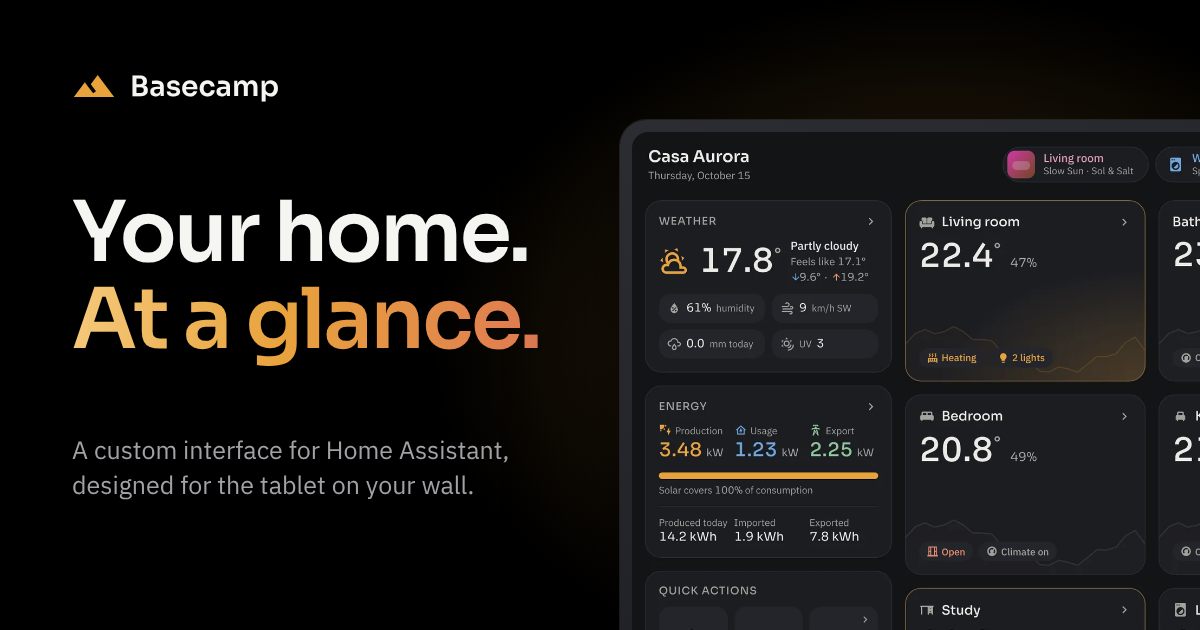
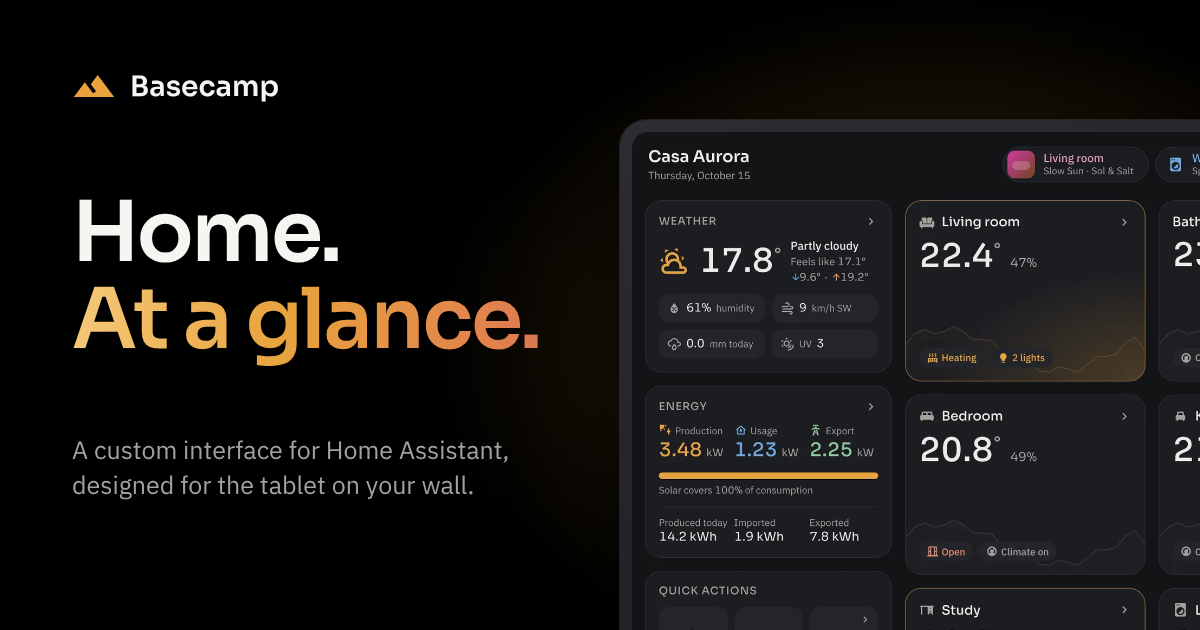
New English claim: Home. At a glance. (avoids the odd Y glyph in Sora)
Claude-Session: https://claude.ai/code/session_012yGYXAWYEvhns3s18BdUVn

Changed region(s): [[0.0617, 0.3016, 0.4625, 0.4222]]

diff --git a/index.html b/index.html
@@ -3,7 +3,7 @@
 <head>
 <meta charset="utf-8">
 <meta name="viewport" content="width=device-width, initial-scale=1">
-<title>Basecamp UI — Your home, at a glance</title>
+<title>Basecamp UI — Home, at a glance</title>
 <meta name="description" content="Basecamp is a custom interface for Home Assistant, designed for the wall tablet and just as at home on your phone.">
 <meta name="theme-color" content="#000000">
 <link rel="canonical" href="https://basecamp-ui.altr.dev/">
@@ -14,14 +14,14 @@
 <meta property="og:type" content="website">
 <meta property="og:site_name" content="Basecamp UI">
 <meta property="og:url" content="https://basecamp-ui.altr.dev/">
-<meta property="og:title" content="Basecamp UI — Your home, at a glance">
+<meta property="og:title" content="Basecamp UI — Home, at a glance">
 <meta property="og:description" content="A custom interface for Home Assistant, designed for the tablet on your wall. Try the live demo.">
 <meta property="og:image" content="https://basecamp-ui.altr.dev/assets/og.png">
 <meta property="og:image:width" content="1200">
 <meta property="og:image:height" content="630">
 <meta property="og:image:alt" content="Basecamp UI home screen on a wall tablet">
 <meta name="twitter:card" content="summary_large_image">
-<meta name="twitter:title" content="Basecamp UI — Your home, at a glance">
+<meta name="twitter:title" content="Basecamp UI — Home, at a glance">
 <meta name="twitter:description" content="A custom interface for Home Assistant, designed for the tablet on your wall. Try the live demo.">
 <meta name="twitter:image" content="https://basecamp-ui.altr.dev/assets/og.png">
 <link rel="preconnect" href="https://fonts.googleapis.com">
@@ -52,7 +52,7 @@
   <section class="hero">
     <div class="wrap">
       <p class="eyebrow rv" data-i18n="hero.eyebrow">Basecamp UI</p>
-      <h1 class="rv" data-i18n="hero.title">Your home.<br><span class="grad">At a glance.</span></h1>
+      <h1 class="rv" data-i18n="hero.title">Home.<br><span class="grad">At a glance.</span></h1>
       <p class="lead rv" data-i18n="hero.lead">A custom interface for Home Assistant. Designed for the tablet on your wall, and just as at home on your phone.</p>
       <div class="shot tablet rv"><img src="assets/screens/en/home-tablet.webp" data-img="home-tablet" width="1920" height="1200" data-i18n-alt="alt.home" alt="" ></div>
     </div>
@@ -221,6 +221,6 @@
   <p><span data-i18n="foot.3">Source code in /demo is licensed under</span> <a href="LICENSE">PolyForm Noncommercial 1.0.0</a>.</p>
 </footer>
 
-<script src="assets/app.js?v=5641adb7"></script>
+<script src="assets/app.js?v=26d9b982"></script>
 </body>
 </html>

diff --git a/assets/app.js b/assets/app.js
@@ -18,7 +18,7 @@ const I18N = {
     "appl.eyebrow": "Appliances", "appl.title": "Laundry day,<br>handled.", "appl.lead": "Progress, time left and programs for dishwasher, washer and dryer, with the right safeguards on start and stop.",
     "alt.bill": "Monthly bill estimate compared with a fixed-rate tariff", "alt.intercom": "Intercom panel with live video and recent calls", "alt.robot": "Robot vacuum panel with the cleaning map", "alt.vmc": "Ventilation panel with the heat-recovery diagram", "alt.music": "Music panel with now playing and queue", "alt.appl": "Dishwasher, washer and dryer with progress", "nav.energy": "Energy", "nav.security": "Security", 
     "hero.eyebrow": "Basecamp UI",
-    "hero.title": "Your home.<br><span class=\"grad\">At a glance.</span>",
+    "hero.title": "Home.<br><span class=\"grad\">At a glance.</span>",
     "hero.lead": "A custom interface for Home Assistant. Designed for the tablet on your wall, and just as at home on your phone.",
     "overview.title": "Everything that matters.<br>Nothing that doesn’t.",
     "overview.lead": "Weather, energy, rooms, security and access on one calm screen you can read from across the room. Big numbers, soft colour, zero clutter.",
@@ -127,7 +127,7 @@ function apply(lang) {
   document.querySelectorAll('img[data-img]').forEach((el) => { const s = `assets/screens/${lang}/${el.dataset.img}.webp`; if (!el.src.endsWith(s)) el.src = s; });
   document.querySelectorAll('[data-i18n-alt]').forEach((el) => { const v = dict[el.dataset.i18nAlt]; if (v != null) el.alt = v; });
   document.querySelectorAll('.lang button').forEach((b) => b.setAttribute('aria-pressed', String(b.dataset.lang === lang)));
-  document.title = lang === 'it' ? 'Basecamp UI — La tua casa, con un’occhiata' : 'Basecamp UI — Your home, at a glance';
+  document.title = lang === 'it' ? 'Basecamp UI — La tua casa, con un’occhiata' : 'Basecamp UI — Home, at a glance';
   try { localStorage.setItem(KEY, lang); } catch {}
 }
 const demoUrl = (embed) => `demo/?${embed ? 'embed&' : ''}lang=${document.documentElement.lang}`;
